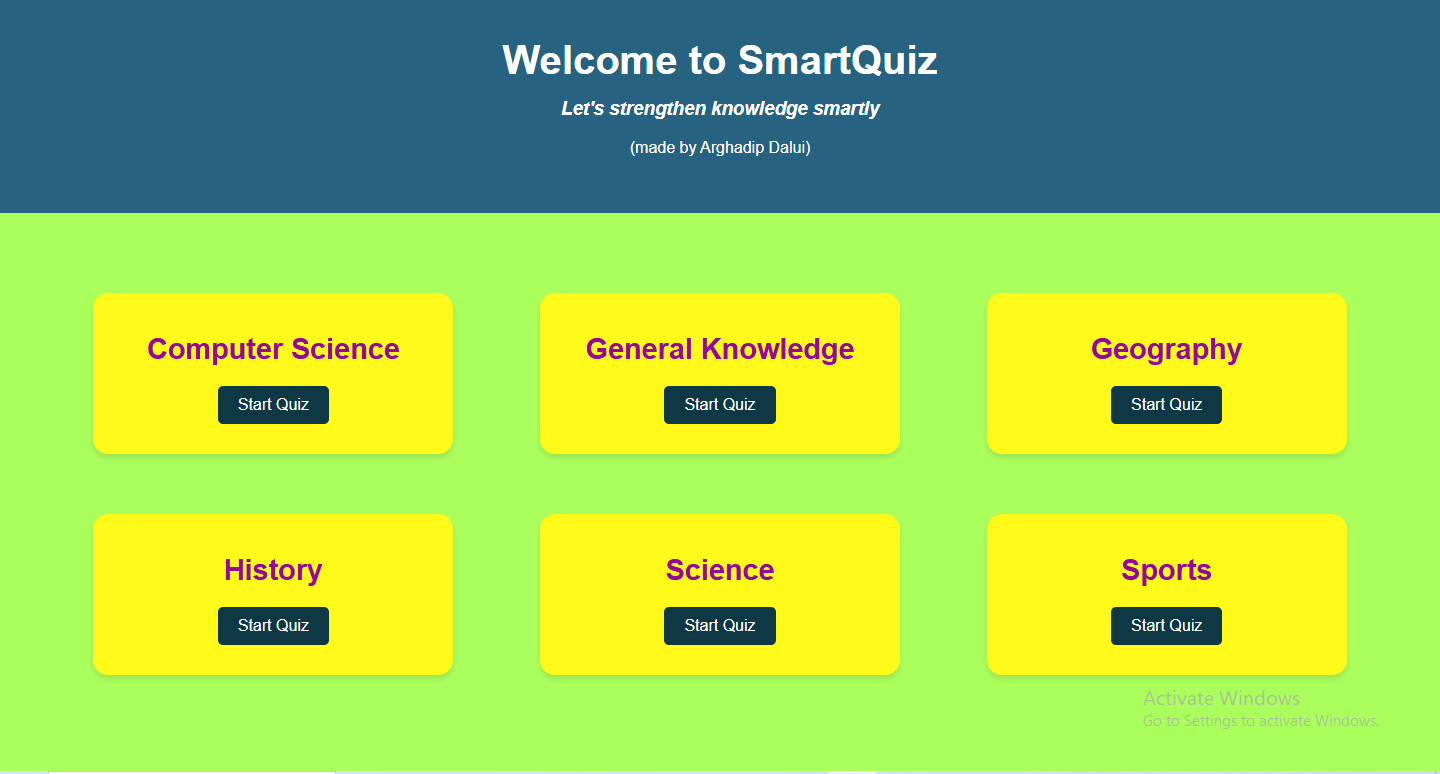
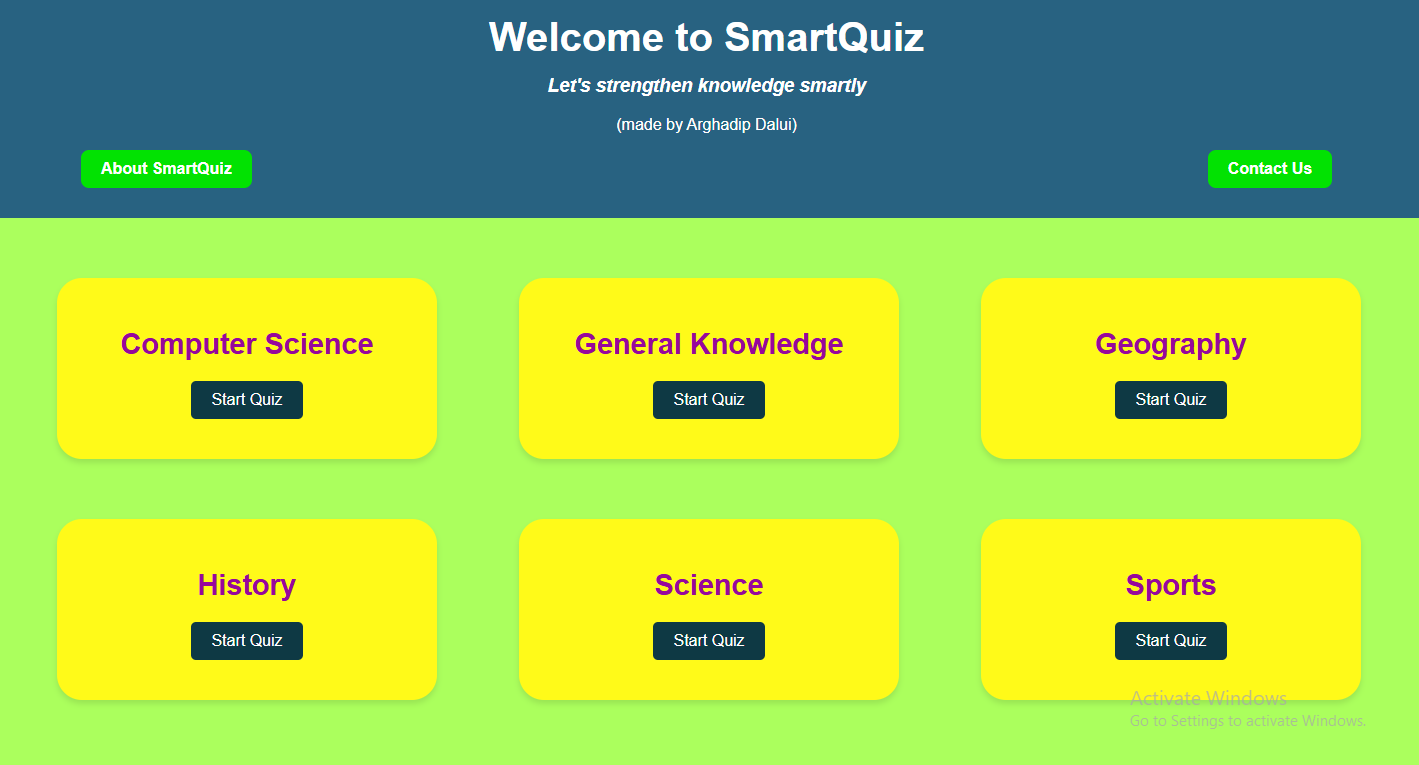
Update for screenshot

diff --git a/README.md b/README.md
@@ -28,12 +28,15 @@ An interactive web-based quiz platform built with **HTML, CSS, and JavaScript**,
 ## 📂 Project Structure  
 SmartQuiz/
 │
+├── about.html # About project
+├── contact.html # Contact author(me-Arghadip Dalui)
 ├── index.html # Homepage (Select quiz category)
-├── quiz.html # Quiz interface
-├── style.css # Stylesheet
-├── script.js # Dynamic logic for quiz handling
 ├── preview.png # Homepage picture
-└── README.md # Project details
+├── questions.json # Quiz questions
+├── quiz.html # Quiz interface
+├── README.md # Project details
+├── script.js # Dynamic logic for quiz handling
+└── style.css # Stylesheet
 
 ---
 
